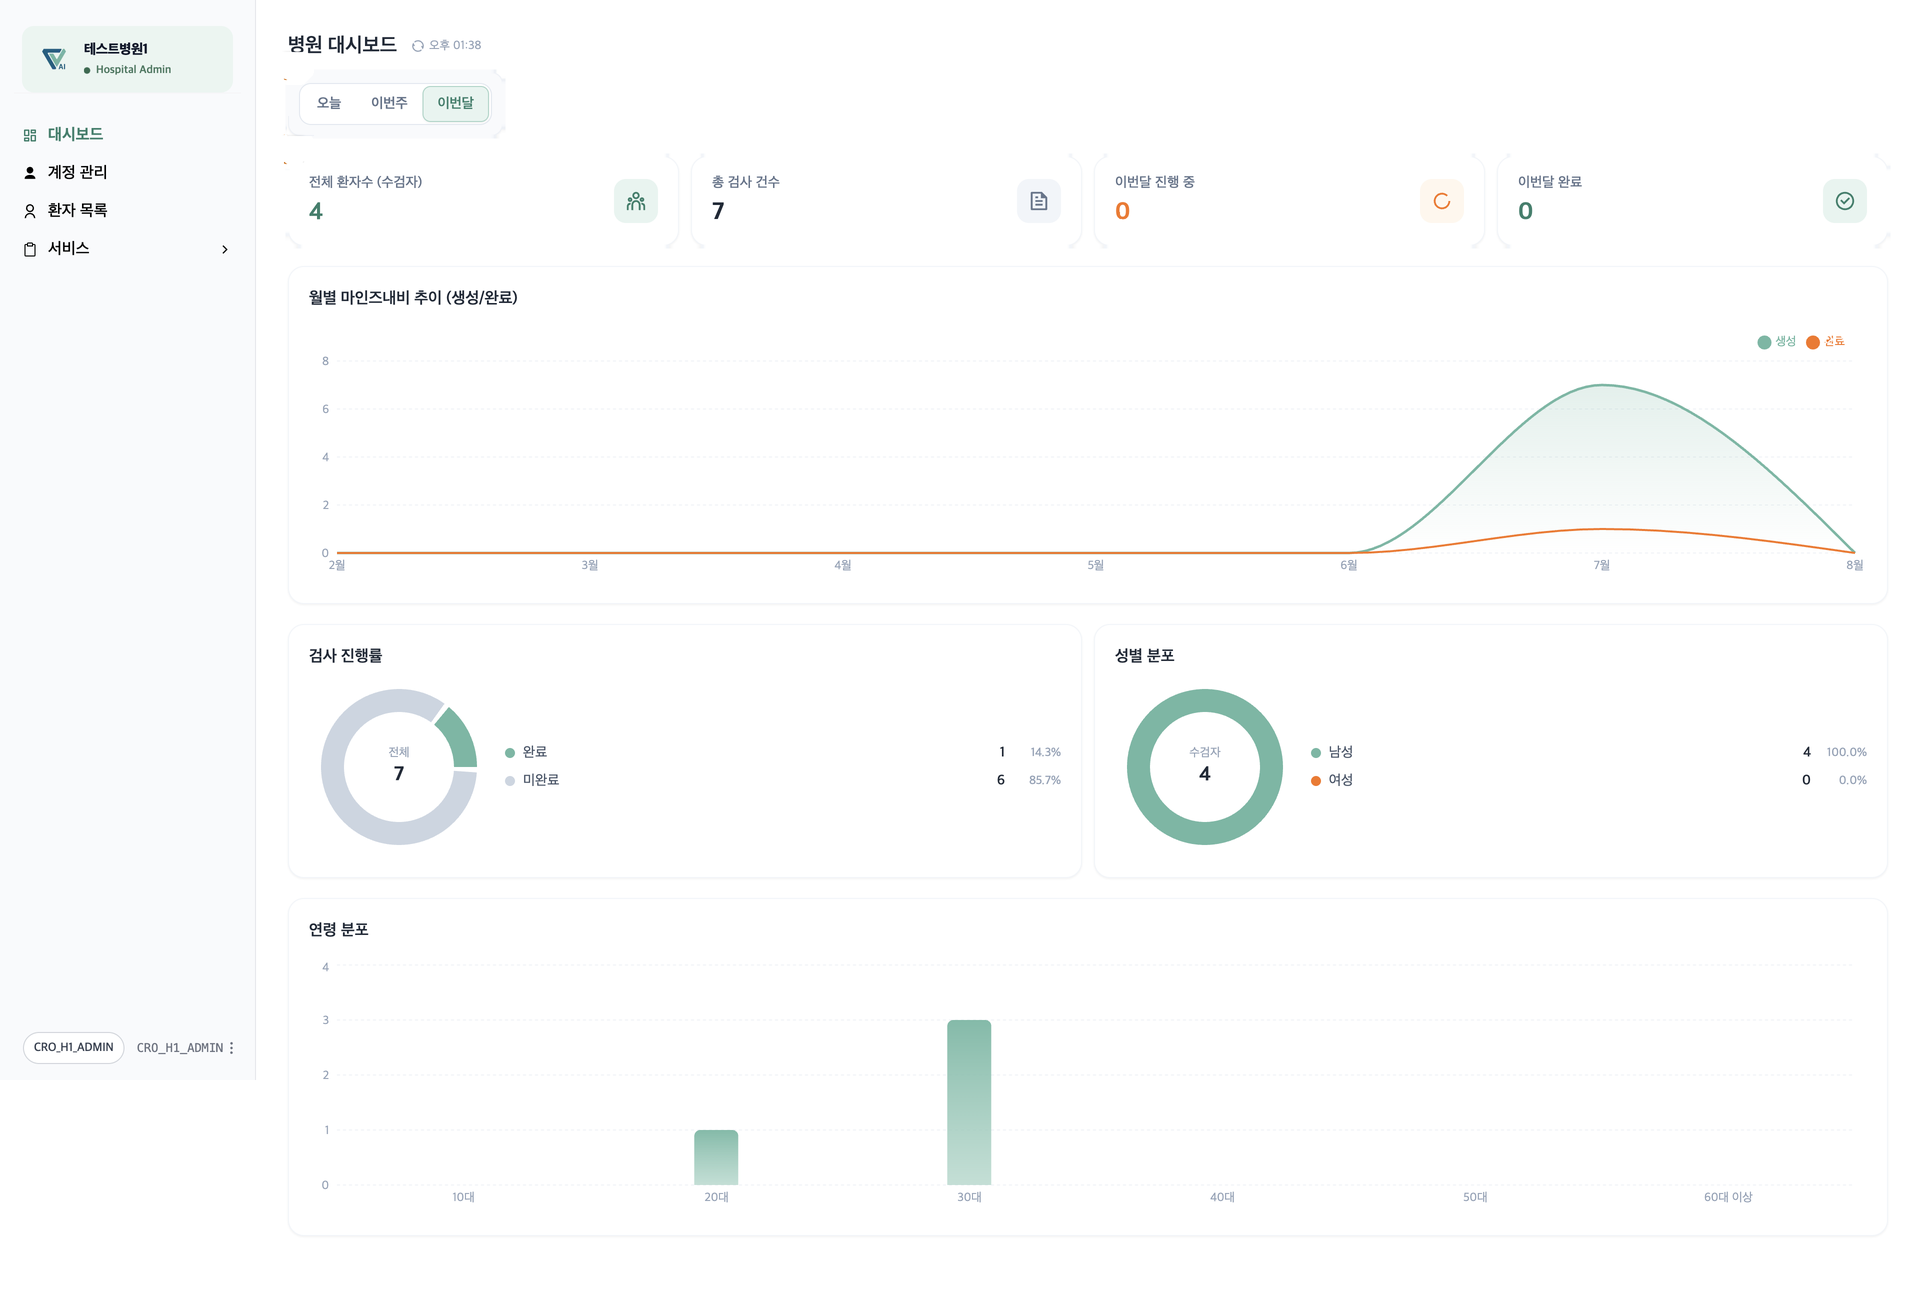
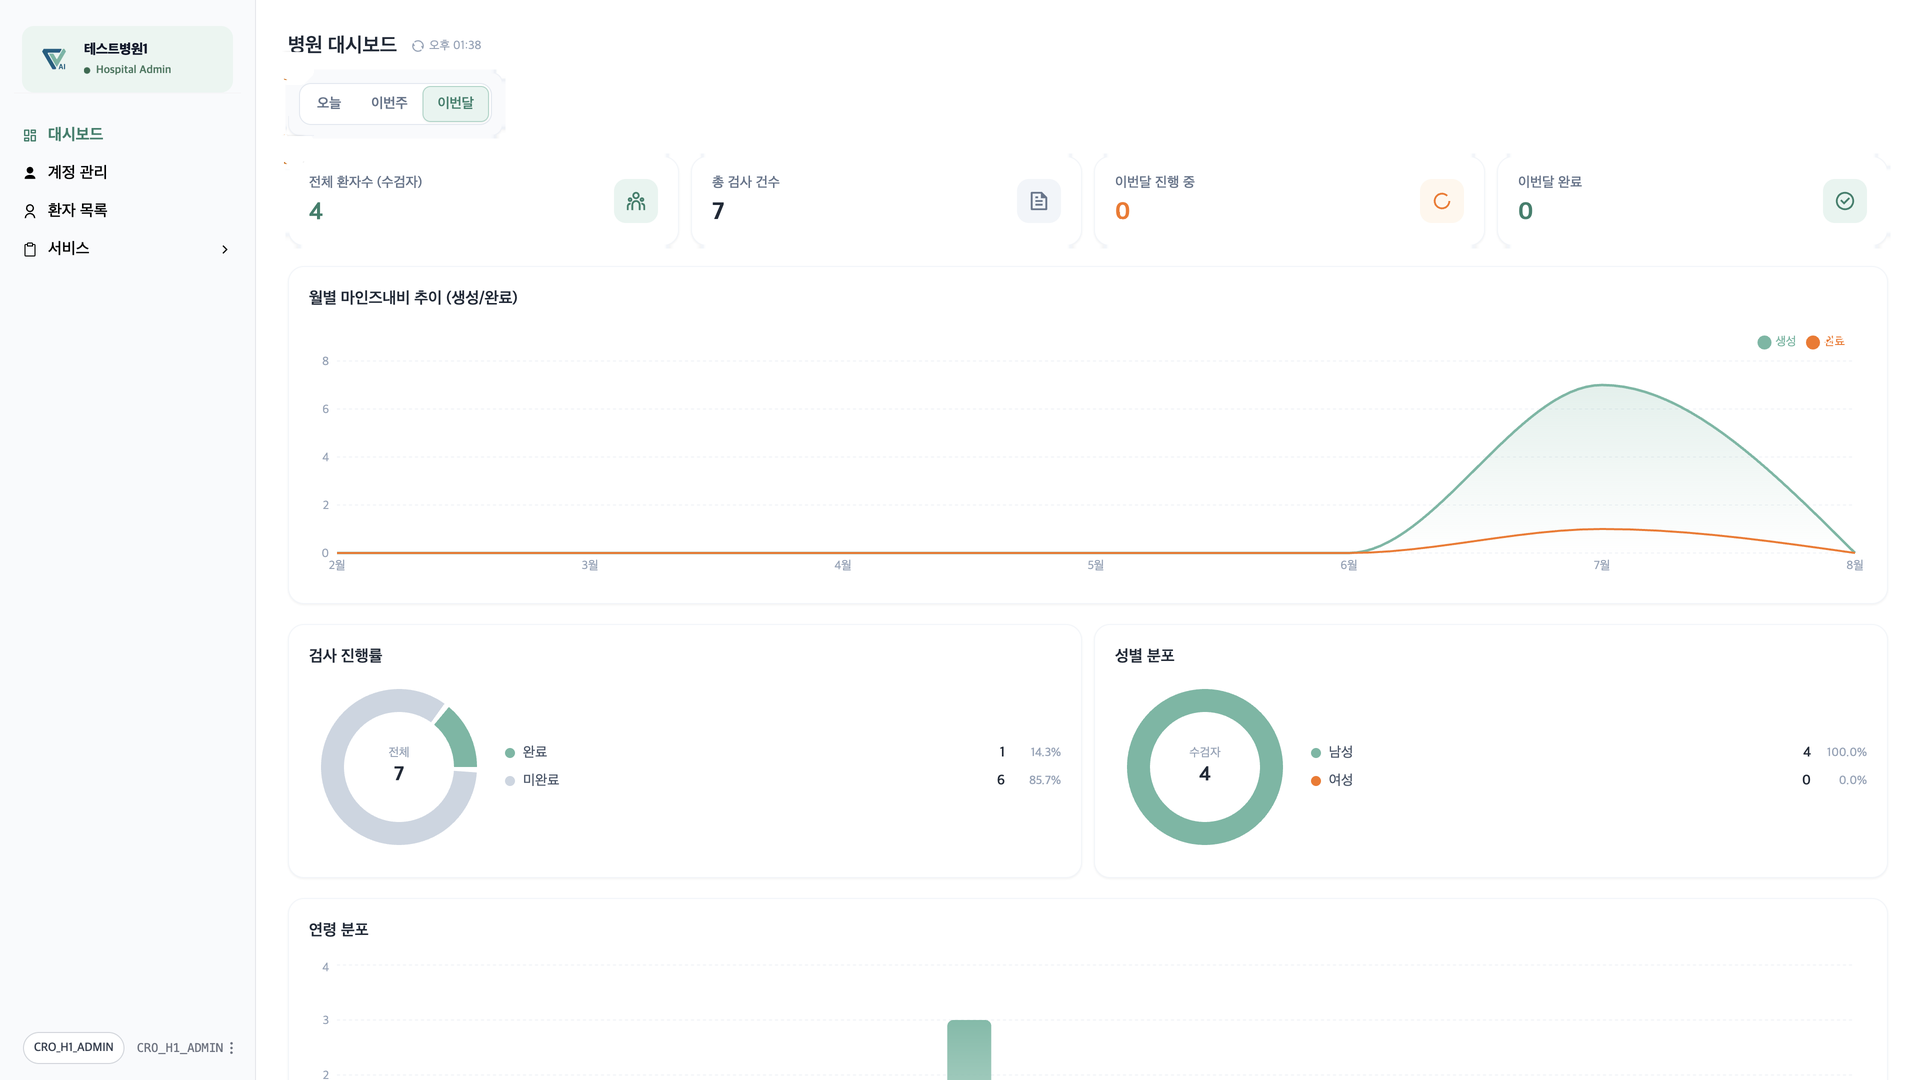
style(portfolio): Minds. NAVI AI dashboard screens at 1920x1080
The manual's captures are a 1920x1080 screen at 2x. The two dashboards were
full-page captures, so the sidebar stopped part way down; the two table
screens had white padding added under them. All four are now cropped to the
screen's own 16:9 frame, so the sidebar runs the full height. Cache version
bumped to v=3.

diff --git a/src/features/portfolio/sections/mnai/MnaiSections.tsx b/src/features/portfolio/sections/mnai/MnaiSections.tsx
@@ -48,9 +48,9 @@ const ncpServices: FlowIcon[] = [
 const shot = (n: string) => `/assets/portfolio/mnai/survey/${n}.png?v=2`;
 
 /** 관리자 대시보드 화면 — 관리자 매뉴얼 캡처에서 번호 박스를 지운 그림. 환자 정보는 원본부터 가려져 있다. */
-const dash = (n: string) => `/assets/portfolio/mnai/dashboard/${n}.png?v=2`;
+const dash = (n: string) => `/assets/portfolio/mnai/dashboard/${n}.png?v=3`;
 
-/** 관리자 대시보드 화면 — 네 장 모두 1920×1314 로 맞춰 두었다(ScreenSwitcher 가 겹쳐 그린다) */
+/** 관리자 대시보드 화면 — 네 장 모두 1920×1080(캡처 원본 화면 비율)으로 맞춰 두었다(ScreenSwitcher 가 겹쳐 그린다) */
 const dashShots = [
     { src: dash("home"), label: "본사 대시보드" },
     { src: dash("progress"), label: "진행 현황" },
